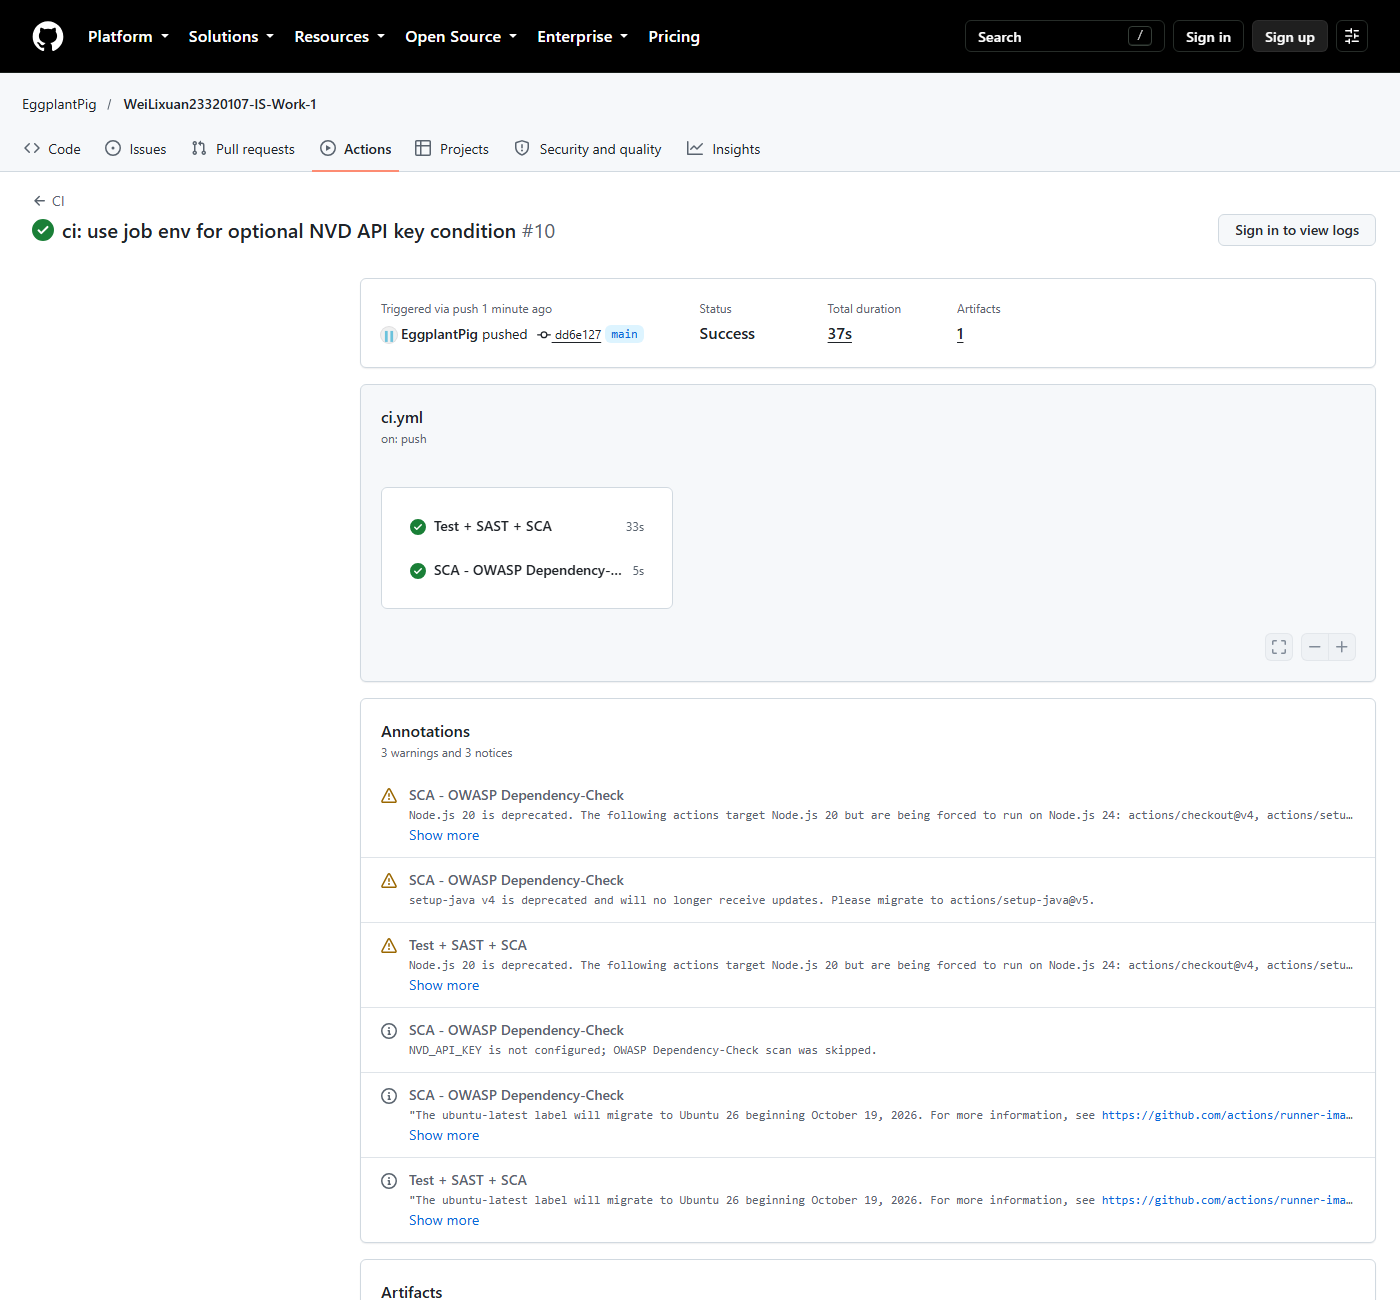
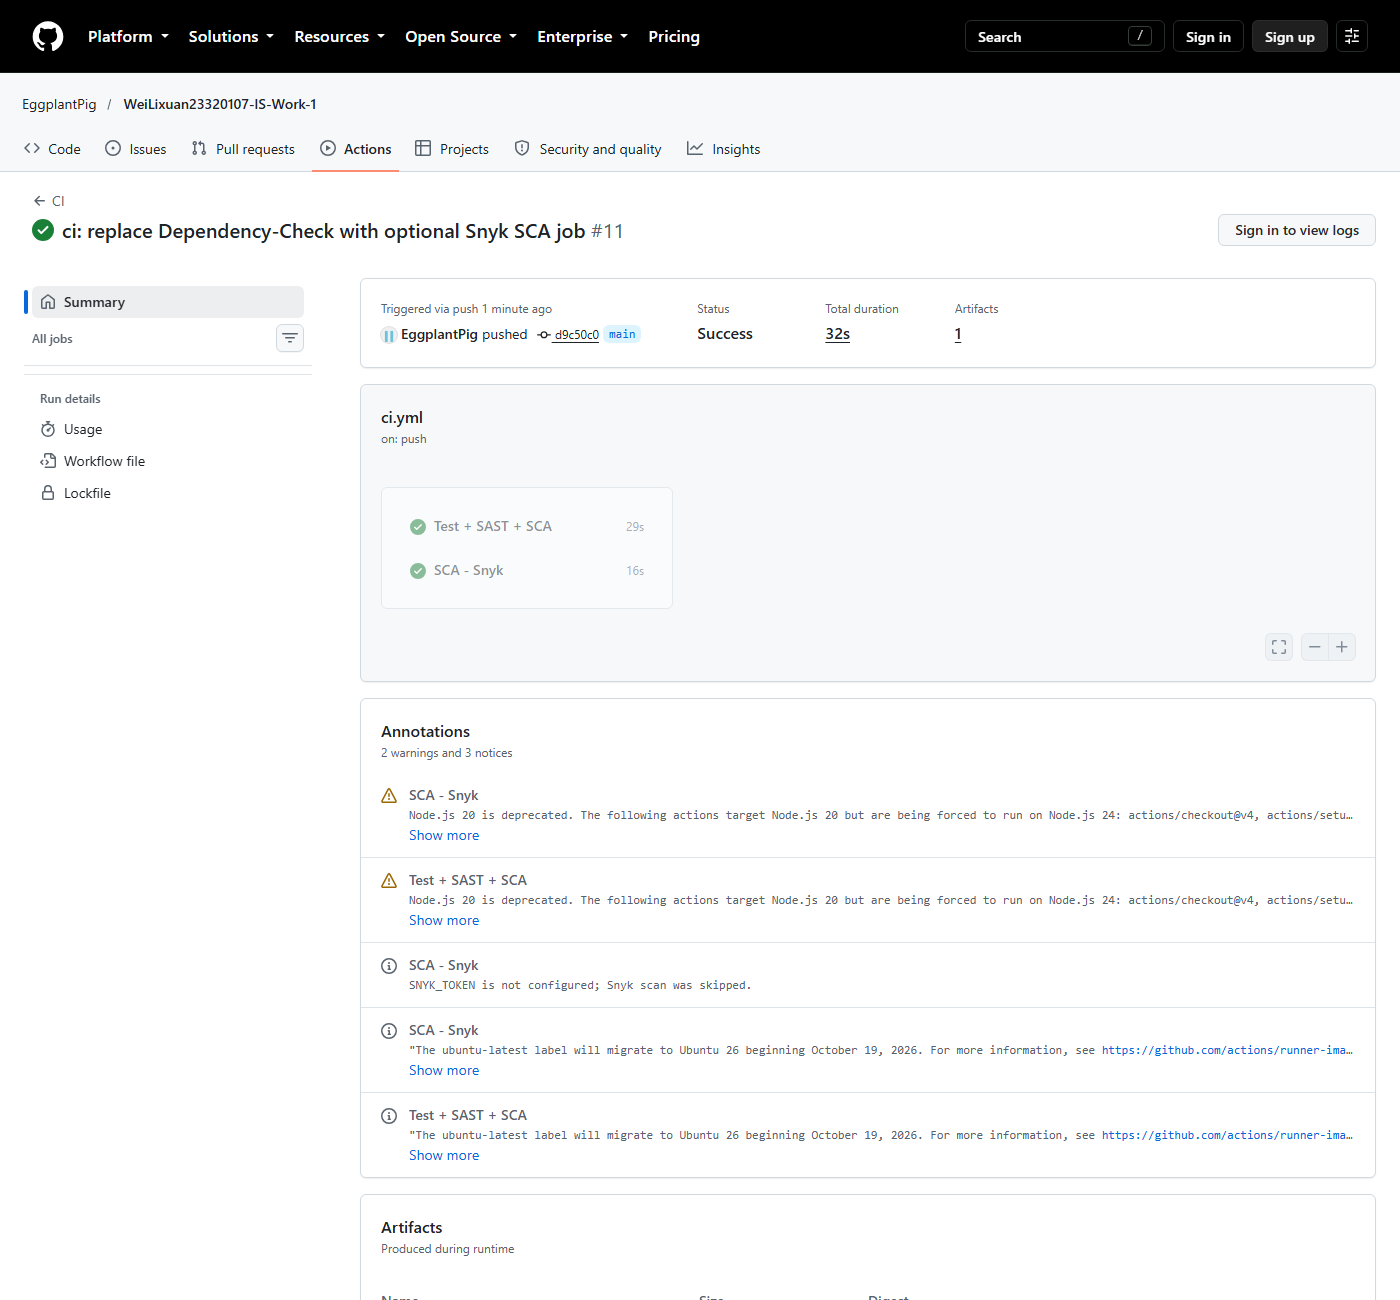
docs: switch SCA documentation to Snyk and update CI evidence [skip ci]

diff --git a/README.md b/README.md
@@ -102,18 +102,18 @@ Workflow: `.github/workflows/ci.yml`. It runs on every push to `main` and on pul
 4. Publish a readable scan summary to the GitHub Actions job summary.
 5. Upload `reports/` as a build artifact.
 
-**Second SCA job — OWASP Dependency-Check:**
+**Second SCA job — Snyk:**
 
-- Uses Java 17 and the official Dependency-Check CLI v12.1.0.
-- The scan runs when the repository secret `NVD_API_KEY` is configured. Without the key the job still validates the CLI download, skips the scan with an explicit notice, and leaves `safety` as the active SCA check.
-- When enabled, it scans the project, generates HTML/JSON reports and uploads `reports/` as a separate artifact.
-- Add the `NVD_API_KEY` repository secret to enable the Dependency-Check scan; the NVD API key is not a GitHub token.
+- Uses Node.js 20 and the Snyk CLI (`snyk test --file=requirements.txt --package-manager=pip`).
+- The scan runs when the repository secret `SNYK_TOKEN` is configured. Without the token the job installs the CLI, skips the scan with an explicit notice, and leaves `safety` as the active SCA check.
+- When enabled, it generates `reports/snyk.json` and `reports/snyk-report.html` and uploads them as a separate artifact.
+- `SNYK_TOKEN` is a Snyk API token, not a GitHub token.
 
-Last successful pipeline: <https://github.com/EggplantPig/WeiLixuan23320107-IS-Work-1/actions/runs/40344831468>
+Last successful pipeline: <https://github.com/EggplantPig/WeiLixuan23320107-IS-Work-1/actions/runs/40357227529>
 
 ### CI evidence
 
-Actions run page showing the successful test/SAST/SCA pipeline and the Dependency-Check job:
+Actions run page showing the successful test/SAST/SCA pipeline and the Snyk job:
 
 ![CI pipeline](cve/CVE-2016-3714/screenshots/04-ci-pipeline.png)
 

diff --git a/report/Work-1-Report.md b/report/Work-1-Report.md
@@ -8,7 +8,7 @@
 | Surname and Name | Wei Lixuan |
 | HDU number | 23320107 |
 | Repository | <https://github.com/EggplantPig/WeiLixuan23320107-IS-Work-1> |
-| Last successful pipeline | <https://github.com/EggplantPig/WeiLixuan23320107-IS-Work-1/actions/runs/40344831468> |
+| Last successful pipeline | <https://github.com/EggplantPig/WeiLixuan23320107-IS-Work-1/actions/runs/40357227529> |
 
 ## 1. Purpose
 
@@ -52,11 +52,11 @@ Workflow file: `.github/workflows/ci.yml`. It runs on every push to `main` and o
 1. `pytest` unit tests.
 2. **SAST** with `bandit -r app`, producing `reports/bandit.json` and `reports/bandit.txt`.
 3. **SCA** with `safety check -r requirements.txt`, producing `reports/safety.txt`.
-4. **SCA** with the OWASP Dependency-Check CLI (v12.1.0), producing HTML/JSON reports as a separate artifact when the `NVD_API_KEY` secret is configured; otherwise the job skips the scan with an explicit notice.
+4. **SCA** with the Snyk CLI (`snyk test --file=requirements.txt --package-manager=pip`), producing JSON/HTML reports as a separate artifact when the `SNYK_TOKEN` secret is configured; otherwise the job skips the scan with an explicit notice.
 5. A readable scan summary published to the Actions job summary.
 6. Upload of the `reports/` directory as build artifacts.
 
-The latest pipeline run passed: <https://github.com/EggplantPig/WeiLixuan23320107-IS-Work-1/actions/runs/40344831468>
+The latest pipeline run passed: <https://github.com/EggplantPig/WeiLixuan23320107-IS-Work-1/actions/runs/40357227529>
 
 ![CI pipeline](../cve/CVE-2016-3714/screenshots/04-ci-pipeline.png)
 
